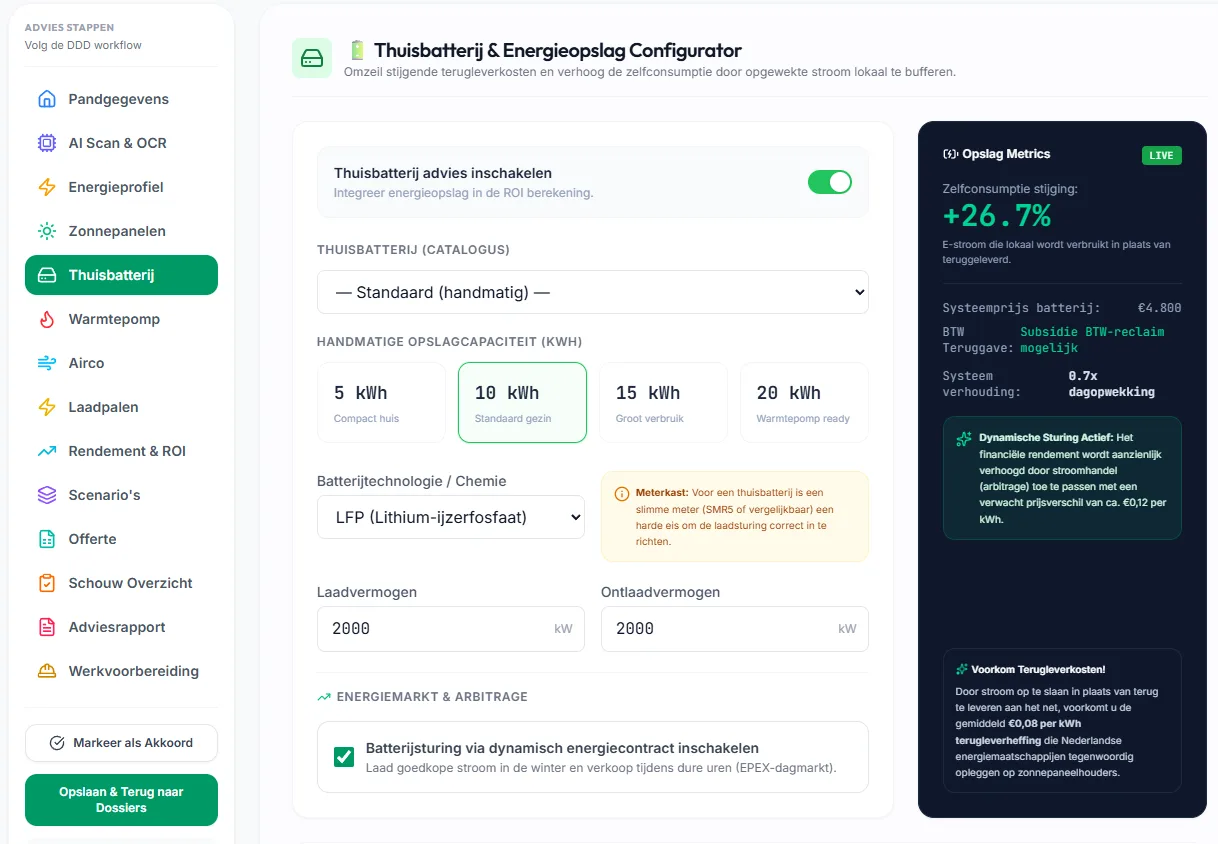
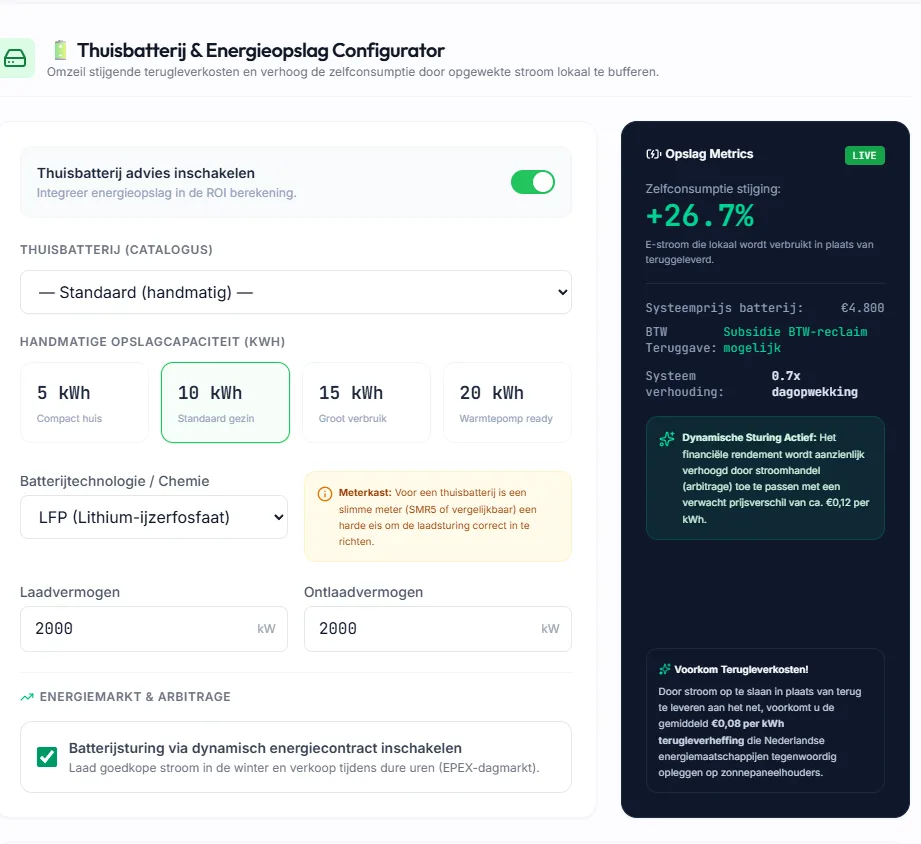
fix: dubbele sidebar uit demo-video screenshots gecropt + Scenario-stap toegevoegd
Screenshots bevatten de app-eigen linker navigatie, die dubbel oogde naast
de component-eigen stappen-zijbalk en het frame kunstmatig klein maakte.
Sidebar per screenshot programmatisch gedetecteerd en weggecropt; container
aspect-ratio aangepast (1568/626 -> 10/9) op de nieuwe content-only ratio.
Scenario's stap ontbrak in de 13-staps-demo, nu toegevoegd op de juiste
plek in de workflow.

diff --git a/src/components/AppDemoVideo.tsx b/src/components/AppDemoVideo.tsx
@@ -2,7 +2,7 @@ import { useState, useEffect, useCallback, useRef } from 'react';
 import { motion, AnimatePresence, useInView } from 'motion/react';
 import {
   Home, Cpu, Zap, Sun, Battery, Flame, Wind, Car,
-  TrendingUp, ClipboardList, FileText, HardHat, Play, Pause, ChevronRight, FileSpreadsheet
+  TrendingUp, ClipboardList, FileText, HardHat, Play, Pause, ChevronRight, FileSpreadsheet, Layers
 } from 'lucide-react';
 
 import imgDossier from '../assets/screenshots/dossier-overzicht.webp';
@@ -19,6 +19,7 @@ import imgOfferte from '../assets/screenshots/offerte.webp';
 import imgSchouw from '../assets/screenshots/schouw-overzicht.webp';
 import imgRapport from '../assets/screenshots/adviesrapport.webp';
 import imgWerkvoorbereiding from '../assets/screenshots/werkvoorbereiding.webp';
+import imgScenario from '../assets/screenshots/scenario.webp';
 
 interface DemoStep {
   id: string;
@@ -98,6 +99,13 @@ const steps: DemoStep[] = [
     icon: <TrendingUp size={16} />,
     screenshot: imgRoi,
     description: 'Volledig gevalideerde doorrekening van terugverdientijd, BTW-voordelen en subsidies over 25 jaar.'
+  },
+  {
+    id: 'scenario',
+    label: "Scenario's",
+    icon: <Layers size={16} />,
+    screenshot: imgScenario,
+    description: "Houd meerdere oplossingen naast elkaar bij en vergelijk investering, besparing en terugverdientijd per scenario."
   },
   {
     id: 'offerte',
@@ -253,11 +261,12 @@ export function AppDemoVideo() {
                 <div className="w-16" />
               </div>
 
-              {/* Screenshot area — aspect ratio matches de screenshots (1568×626, ververst 2026-08-10).
-                  Bewust breder/lager dan de oude 1230×810-ratio: bij een smallere ratio werd de
-                  content fors uitgerekt/verkleind door object-contain (te klein/onduidelijk in de
-                  demo), omdat deze screenshots op volledige viewportbreedte zijn vastgelegd. */}
-              <div className="relative bg-white overflow-hidden" style={{ aspectRatio: '1568/626' }}>
+              {/* Screenshot area — aspect ratio matches de gecropte screenshots (ververst 2026-08-14,
+                  app-sidebar uit de screenshots weggesneden zodat er geen dubbele navigatie meer
+                  in beeld staat naast de component-eigen stappen-zijbalk; ~10/9 is het gemiddelde
+                  van de 14 gecropte content-panes). object-contain vangt de ene uitzondering
+                  (dossieroverzicht, volle breedte zonder sidebar) netjes met witte letterbox op. */}
+              <div className="relative bg-white overflow-hidden" style={{ aspectRatio: '10/9' }}>
                 <AnimatePresence mode="wait">
                   <motion.img
                     key={activeStep.screenshot}
